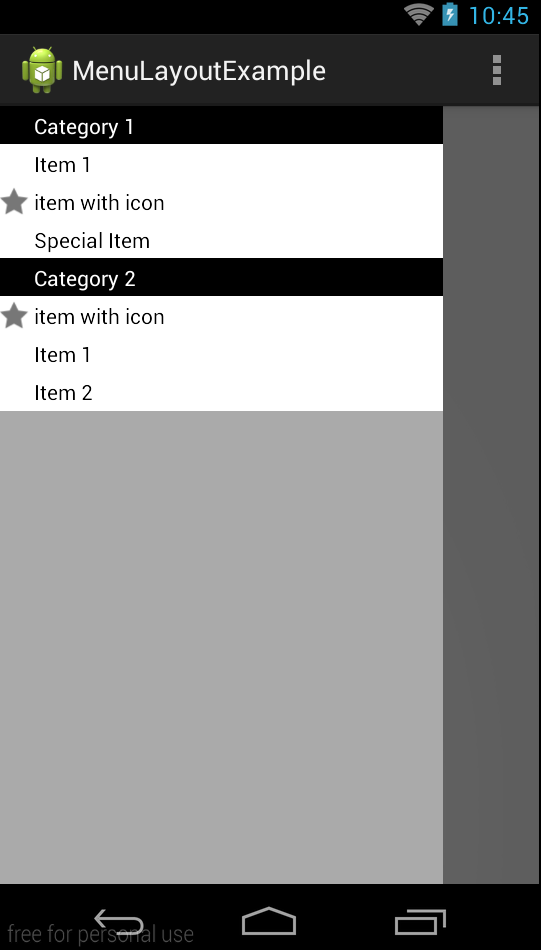
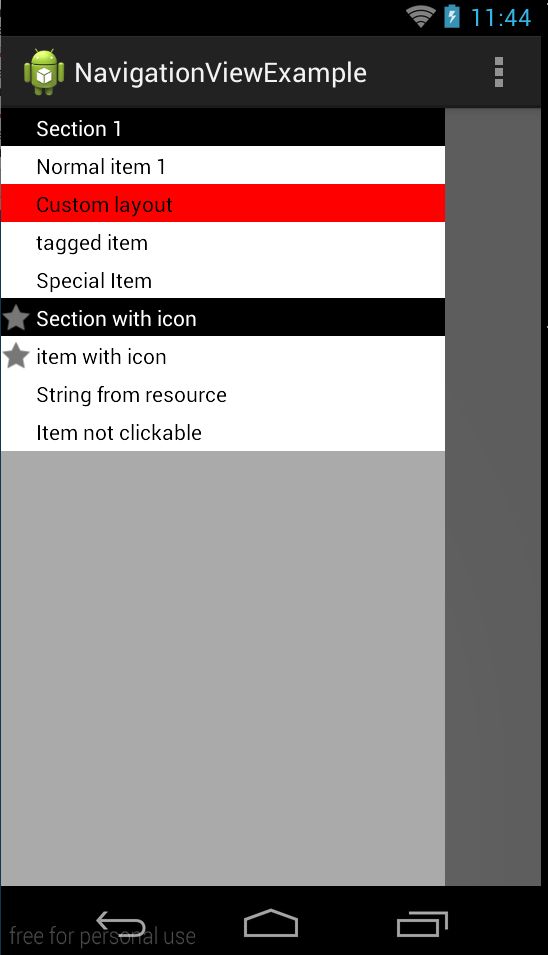
adding functionality to read string from resources

Changed region(s): [[0.0, 0.0305, 1.0, 1.0], [0.7394, 0.0, 0.976, 0.0916], [0.0, 0.0305, 0.0296, 0.0611]]

diff --git a/navigationview/library/src/main/java/mazoni/navigationview/NavigationView.java b/navigationview/library/src/main/java/mazoni/navigationview/NavigationView.java
@@ -82,6 +82,17 @@ public class NavigationView extends ListView {
         }
 
         /**
+         * Loads the stringResource from strings and add an item using it
+         * @param stringResource
+         * @return
+         */
+        public Builder addItem(int stringResource) {
+            String label = getResources().getString(stringResource);
+            addItem(0, label, String.valueOf(items.size()), R.layout.navigation_item, defaultListener);
+            return this;
+        }
+
+        /**
          * Sets the last added item to use section layout
          * @return
          */
@@ -142,10 +153,21 @@ public class NavigationView extends ListView {
             return this;
         }
 
+        /**
+         * Defines the last added item as notClickable
+         */
+        public Builder notClickable() {
+            if(lastItem != null) lastItem.setListener(null);
+            return this;
+        }
+
+
+
+
         private Builder addItem(int icon, String label, String tag, int layout, NavigationItem.Listener listener) {
             Drawable iconDrawable = icon == 0? null : getResources().getDrawable(icon);
             NavigationItem navigationItem = new NavigationItem(iconDrawable, label, tag, layout);
-            navigationItem.setListener(listener);
+            if(listener != null) navigationItem.setListener(listener);
             items.add(navigationItem);
             lastItem = navigationItem;
             return this;

diff --git a/navigationview/example/src/main/java/mazoni/navigationview/example/MainActivity.java b/navigationview/example/src/main/java/mazoni/navigationview/example/MainActivity.java
@@ -46,14 +46,15 @@ public class MainActivity extends ActionBarActivity {
             }
         };
         navigationBuilder.inform(listener).
-                addItem("Category 1").asSection().
-                addItem("Item 1").
-                addItem("item with icon").withIcon(R.drawable.icon_star).tagged("with-icon").
+                addItem("Section 1").asSection().
+                addItem("Normal item 1").
+                addItem("Custom layout").inflatedInto(R.layout.custom_layout).
+                addItem("tagged item").tagged("tagged-item").
                 addItem("Special Item").inform(specialListener).
-                addItem("Category 2").asSection().
+                addItem("Section with icon").withIcon(R.drawable.icon_star).asSection().
                 addItem("item with icon").withIcon(R.drawable.icon_star).
-                addItem("Item 1").
-                addItem("Item 2").
+                addItem(R.string.string_from_resource).
+                addItem("Item not clickable").notClickable().
                 create();
 
     }
